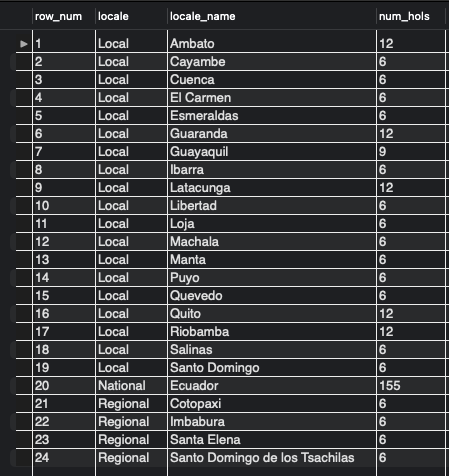
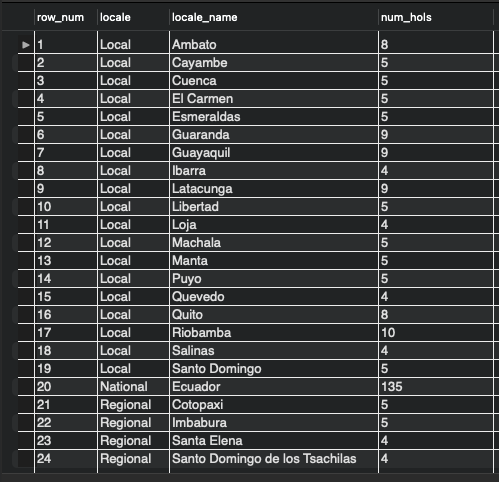
finish documentation for second left join of final query

Changed region(s): [[0.0, 0.0, 1.0, 1.0]]

diff --git a/docs/sql_query.md b/docs/sql_query.md
@@ -163,12 +163,12 @@ flowchart TD
 
 ```sql
 WITH CityStoreCount AS (
-SELECT
-  state,
-  COUNT(DISTINCT city) as city_count,
-  COUNT(*) as store_count
-FROM stores
-GROUP BY state
+  SELECT
+    state,
+    COUNT(DISTINCT city) as city_count,
+    COUNT(*) as store_count
+  FROM stores
+  GROUP BY state
 )
 
 SELECT
@@ -205,10 +205,11 @@ Also, we were given holidays for year 2012 when the `train` starts from 2013.
 Let's first count the number of days from 2012 to 2017 for each city and state, and also the nation itself, with the exclusion of the following conditions (exclude those days from the query results):
 1. Days where `transferred = True` does not count as an actual celebrated day.
 2. Type of day where `type = Work Day` does not count as a celebration day.
+3. Include `date` which are between `2013-01-01` - `2017-08-15`. This will align with the date range from `train`.
 
-```{admonition} Query Explanation
-
-````
+```{note}
+Without knowing the number of days of holiday for each city first will not allow us to validate the next part of SQL join is done correctly. That is why in the earlier part, we analysis for each city the number of days of holiday.
+```
 
 ```sql
 WITH HolidayCount AS (
@@ -216,9 +217,9 @@ WITH HolidayCount AS (
     COUNT(DISTINCT date) AS num_hols,
     locale_name,
     locale
-FROM holidays_events
-WHERE transferred = 'False' AND type != 'Work Day'
-GROUP BY locale_name, locale
+  FROM holidays_events
+  WHERE transferred = 'False' AND type != 'Work Day' AND date BETWEEN '2013-01-01' AND '2017-08-15'
+  GROUP BY locale_name, locale
 )
 
 SELECT
@@ -238,5 +239,115 @@ Not all cities and states have holidays. As analyzed in the previous sub-section
 
 # First merge for the final query
 
-In this section, we explored the merging of columns between `train` and `holidays_events` tables. We want to have information of all holidays because these information may be related to the sales of products in `train`. Before we can do the first merge, we need a common identifying column because both `train` and `holidays_events` table do not have a common column. Hence, we use the `stores` table.
+In this section, we explored the merging of columns between `train` and `holidays_events` tables. We want to have information of all holidays because these information may be related to the sales of products in `train`. Before we can do the first merge, we need a common identifying column because both `train` and `holidays_events` table do not have a common column.
 
+- First, we can make use of `store_nbr` column from `stores` table.
+- We do a LEFT JOIN on both `city` and `state` columns into `train`. Because in `holidays_events` table, there is `locale_name` column which contains name of cities and states. 
+
+As of now, we are only interested in holidays for cities (states will come later). The query below returns 3,000,887 rows which is the same as the original rows for `train`.
+
+```sql
+SELECT
+  tr.*,
+  st.city
+FROM time_series.train AS tr
+LEFT JOIN time_series.stores AS st
+  ON tr.store_nbr = st.store_nbr;
+```
+
+<div align="center">
+
+![left_join_1](img/left_join_1.png)
+</div>
+
+- Now, we have `city` column in `train`. We are ready to join `date` column from `holidays_events` so that we know how daily sales of cities' store are affected by holidays.
+- We start with a query which tells us all holiday dates for cities only. We take the same query from CTE `HolidayCount` and from `holidays_events` include a new condition to filter city rows.
+
+```sql
+SELECT
+  date,
+  locale_name,
+  transferred
+FROM holidays_events
+WHERE type != 'Work Day' AND transferred = 'False' AND locale = 'Local' AND date BETWEEN '2013-01-01' AND '2017-08-15'
+GROUP BY date, locale_name, transferred;
+```
+
+```{attention}
+Notice now we have the unique, this makes a one-to-many relationship of `date` columns between `train` and the query below.
+
+This was an important step for the next part of the SQL join because there were a lot of times we found ourselves with explosion of rows with NULL values.
+```
+
+<div align="center">
+
+![city_holidays](img/city_holidays.png)
+</div>
+
+- For this second part of SQL LEFT join, we take the previous query and put it as a subquery, calling it `subquery_c`.
+- We join on 2 sets of matching columns - date and city name columns from `train` and `subquery_c`.
+- Where there is a match on the 2 sets of matching columns from both table, temporary return value from `transferred` column from `subquery_c`, and rename if as `Yes`. If there is no match, indicating there is no holiday on that day of the city, `NULL` will be returned, and rename it as `No`.
+
+```sql
+SELECT
+  tr.*,
+  st.city,
+  st.state,
+  IF(subquery_c.transferred IS NULL, 'No', 'Yes') as city_hols
+  FROM train as tr
+  LEFT JOIN stores as st
+    ON tr.store_nbr = st.store_nbr
+  LEFT JOIN (
+      SELECT
+        date,
+        locale_name,
+        transferred
+      FROM holidays_events
+      WHERE locale = 'Local' AND type != 'Work Day' AND transferred = 'False' AND date BETWEEN '2013-01-01' AND '2017-08-15'
+      GROUP BY date, locale_name, transferred
+  ) subquery_c
+    ON tr.date = subquery_c.date AND st.city = subquery_c.locale_name;
+```
+
+<div align="center">
+
+![left_join_2](img/left_join_2.png)
+</div>
+
+- We validate if this second LEFT JOIN is done correctly by doing a comparison with an earlier analysis on holiday of city, state and country. We want to check if the count of holiday dates are the same.
+- To do this, wrap the query into a subquery again, filter `city_hols = Yes` and group the rows by name of city.
+
+```sql
+SELECT
+  COUNT(DISTINCT date) AS city_hols_count,
+  city
+FROM (
+  SELECT
+    tr.*,
+    st.city,
+    st.state,
+    IF(subquery_c.transferred IS NULL, 'No', 'Yes') as city_hols
+  FROM train as tr
+  LEFT JOIN stores as st
+    ON tr.store_nbr = st.store_nbr
+  LEFT JOIN (
+      SELECT
+        date,
+        locale_name,
+        transferred
+      FROM holidays_events
+      WHERE locale = 'Local' AND type != 'Work Day' AND transferred = 'False' AND date BETWEEN '2013-01-01' AND '2017-08-15'
+      GROUP BY date, locale_name, transferred
+  ) subquery_c
+    ON tr.date = subquery_c.date AND st.city = subquery_c.locale_name
+) subquery2
+WHERE city_hols = 'Yes'
+GROUP BY city
+```
+
+<div align="center">
+
+| CTE `HolidayCount` | `subquery2`
+:-------------------------:|:-------------------------:
+![CTE_HolidayCount](img/count_holiday.png) | ![subquery2](img/validate_left_join_2.png)
+</div>
